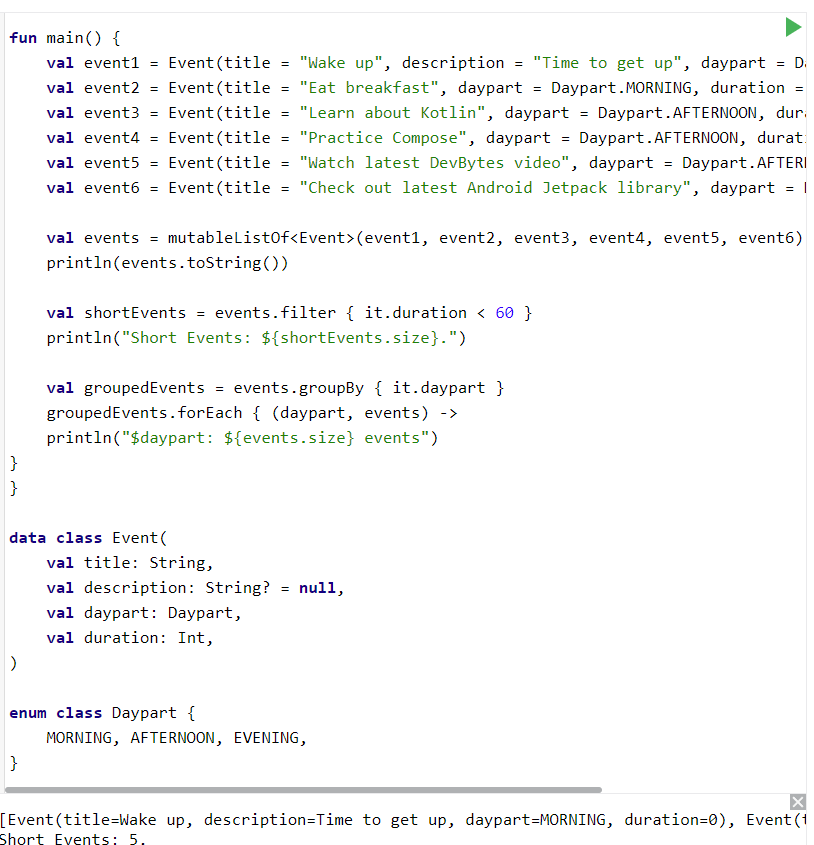
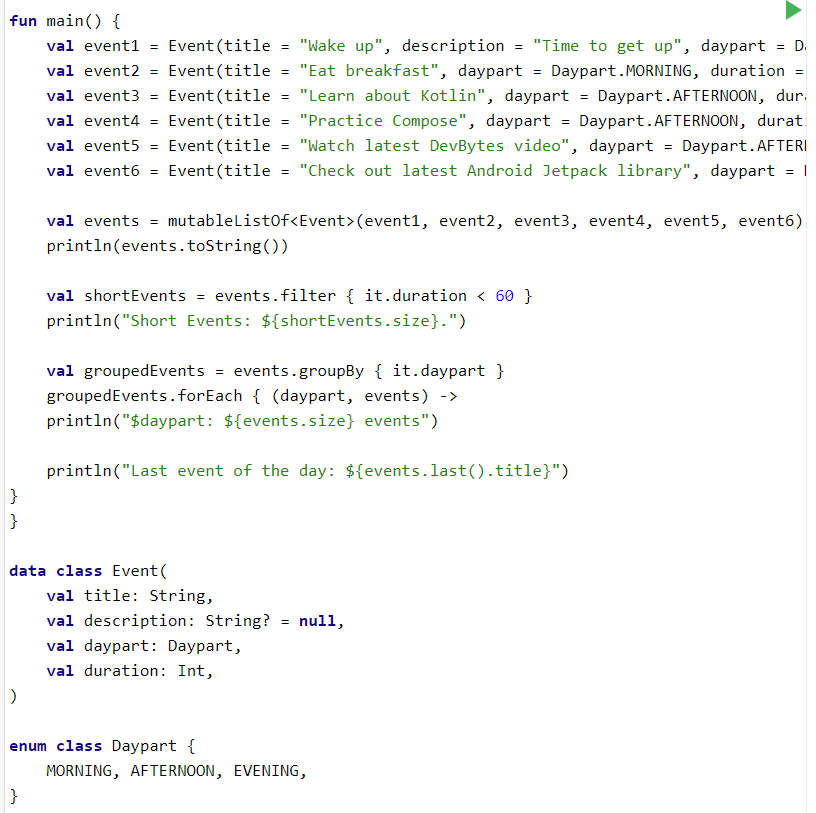
Atividade6

diff --git a/script.kt b/script.kt
@@ -15,6 +15,8 @@ fun main() {
     val groupedEvents = events.groupBy { it.daypart }
     groupedEvents.forEach { (daypart, events) ->
     println("$daypart: ${events.size} events")
+
+    println("Last event of the day: ${events.last().title}")
 }
 }
 
@@ -33,5 +35,8 @@ enum class Daypart {
 [Event(title=Wake up, description=Time to get up, daypart=MORNING, duration=0), Event(title=Eat breakfast, description=null, daypart=MORNING, duration=15), Event(title=Learn about Kotlin, description=null, daypart=AFTERNOON, duration=30), Event(title=Practice Compose, description=null, daypart=AFTERNOON, duration=60), Event(title=Watch latest DevBytes video, description=null, daypart=AFTERNOON, duration=10), Event(title=Check out latest Android Jetpack library, description=null, daypart=EVENING, duration=45)]
 Short Events: 5.
 MORNING: 2 events
+Last event of the day: Eat breakfast
 AFTERNOON: 3 events
-EVENING: 1 events*/
+Last event of the day: Watch latest DevBytes video
+EVENING: 1 events
+Last event of the day: Check out latest Android Jetpack library*/
